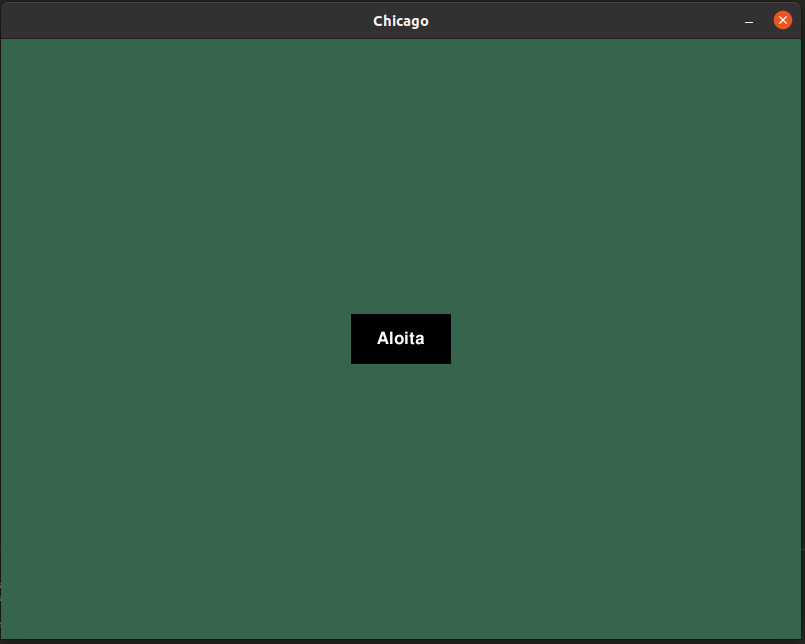
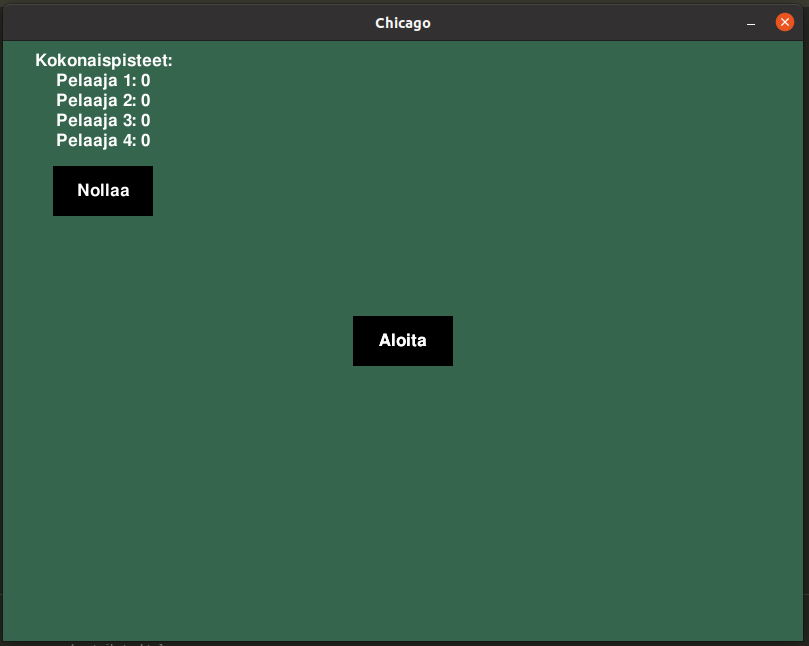
Käyttöohjetta, vaatimusmäärittelyä ja READMEta päivitetty

diff --git a/src/game_logic/game_actions.py b/src/game_logic/game_actions.py
@@ -471,7 +471,7 @@ class App:
         Metodi pistetarkistukseen ja pelin päättämiseen jos pisteitä on tarpeeksi. 
         Tästä metodista voi myös nostaa/laskea pistemäärää, jonka ylityksestä peli päättyy. 
         """
-        if points[len(points)-1] >= 5:
+        if points[len(points)-1] >= 10:
             if points[len(points)-1] > points[len(points)-2]:
                 for player in self.players:
                     if self.scoreboard[player] == points[len(points)-1]:

diff --git a/dokumentaatio/kayttoohje.md b/dokumentaatio/kayttoohje.md
@@ -1,18 +1,18 @@
 <h1>Käyttöohje</h2>
 <h2> Pelin käynnistys </h2>
-Kun avaat sovelluksen komennolla <i>poetry invoke run start</i>, näytöllesi aukeaa graafinen käyttöliittymä, joka näyttöö seuraavalta:
+README:n ohjeiden avulla saat aluksi tarvittavat konfiguraatiot tehtyä. Kun avaat sovelluksen komennolla <i>poetry invoke run start</i>, näytöllesi aukeaa graafinen käyttöliittymä, joka näyttöö seuraavalta:
 
 ![Aloitusnäkymä](./kuvat/aloitusnakyma.png)
 
-Pelin saat käynnistettyä painamalla "Aloita peli".
+Pelin saat käynnistettyä painamalla "Aloita peli". Vasemmassa yläkulmassa näkyy lisäksi kokonaispistetilasto. Tilaston saa halutessaan nollattua painikkeesta sen alapuolelta. Mikäli kokonaispisteet ovat jo nollissa, nappi ei tee mitään näkyvää.
 
 <h2> Pokeri </h2>
 
-Peli käynnistyy ensimmäisenä pokerilla, joka näyttää tältä:
+Peli käynnistyy ensimmäisenä pokerilla, joka näyttää suunnilleen tältä:
 
 ![Pokerinäkymä](./kuvat/pokerinakyma.png)
 
-Vaihtokortit saat valittua klikkaamalla haluamiasi kortteja ja klikkaamalla "Jatka". Pelissä on 4 pelaajaa ja pokerikierroksia/vaihtoja on 2.
+Vaihtokortit saat valittua klikkaamalla haluamiasi kortteja ja klikkaamalla "Jatka". Pelissä on 4 pelaajaa ja pokerikierroksia/vaihtoja on 2. Toisella pokerikierroksella on mahdollista aktivoida blanco-chicago, jolloin sinun on vaihdettava vähintään yksi kortti. Mikäli pelaaja huutaa blancon, eivät muut pelaajat voi tämän jälkeen enää huutaa blancoa tai chicagoa. Kummankin vaihtokierroksen yhteydessä jaetaan parhaasta pokerikädestä pisteet sivun alalaidassa olevan pisteytyslistan mukaan.
 
 <h2> Tikki </h2>
 
@@ -20,7 +20,10 @@ Pokerikierroksen jälkeen vuoroon tulee tikki:
 
 ![Tikkinäkymä](./kuvat/tikkinakyma.png)
 
-Tikissä ensimmäisenä vuorossa oleva asettaa pöydälle yhden kortin. Tästä kortista tulee vertailukortti, ja muiden pelaajien on pelattava tätä samaa maata. Jos toinen pelaaja pelaa samaa maata ja arvoltaan suuremman kortin, tulee tästä kortista vertailukortti. Kun kaikki ovat asettaneet yhden kortin pöydälle, vuoroa jatkaa edellisen kierroksen voittaja eli vertailukortin viimeisin asettaja. Tikkikierroksia on 5, eli pelataan kortit pois. Tikin viimeisen kierroksen voittaja saa 5 pistettä. Tällä hetkellä peli on asetettu loppumaan 10 pisteeseen, sitä voi halutessaan muuttaa.
+Tikissä ensimmäisenä vuorossa oleva asettaa pöydälle yhden kortin. Tästä kortista tulee vertailukortti, ja muiden pelaajien on pelattava tätä samaa maata. Jos toinen pelaaja pelaa samaa maata ja arvoltaan suuremman kortin, tulee tästä kortista vertailukortti. Kun kaikki ovat asettaneet yhden kortin pöydälle, vuoroa jatkaa edellisen kierroksen voittaja eli vertailukortin viimeisin asettaja. Tikkikierroksia on viisi, eli pelataan kortit pois. Mikäli pelissä on huudettu blanco tai normaali chicago, sen huutajan on voitettava kaikki viisi tikkikierrosta. Tikin viimeisen kierroksen voittaja saa 5 pistettä. Jokaisen kierroksen (paitsi chicago-kierroksen) jälkeen lopussa tarkistetaan vielä pokerikäsi, ja paras käsi saa pisteet. Pisteytyksen löydät tämän tiedoston alareunasta.
+
+
+Tällä hetkellä peli on asetettu loppumaan 10 pisteeseen, sitä voi halutessaan muuttaa src/game_logic/game_actions-tiedostosta App-luokasta metodista points_check.
 
 <h2> Loppunäkymä </h2>
 
@@ -29,3 +32,17 @@ Kun peli loppuu, avautuu seuraava näkymä:
 ![Loppunäkymä](./kuvat/loppunakyma.png)
 
 Pelin loputtua voit halutessasi aloittaa uuden pelin.
+
+<h2> Pisteytys </h2>
+Pari: 1p
+Kaksi paria: 2p
+Kolmoset: 3p
+Suora: 4p
+Väri: 5p
+Täyskäsi: 6p
+Neloset: 8p (ja kaikki muut pelaajat tippuvat 0 pisteeseen)
+Värisuora: 52p (ja kaikki muut pelajaat tippuvat 0 pisteeseen, peli loppuu)
+Tikin lopetus: 5p
+Tikin lopetus kakkosella: 10p
+Chicago (onnistunut/epäonnistunut): 15/-15
+Blanco-chicago (onnistunut/epäonnistunut): 30/-30

diff --git a/dokumentaatio/vaatimusmaarittely.md b/dokumentaatio/vaatimusmaarittely.md
@@ -1,8 +1,11 @@
 # Vaatismusmäärittely
 ## Sovelluksen tarkoitus
-Sovelluksessa 4 käyttäjää pystyy pelaamaan vastakkain Chicago-korttipeliä. Chicagossa pelataan aluksi 2 kierrosta pokeria ja kierros päätetään tikkiin. Kummankin pokerikierroksen jälkeen pelaajan on mahdollista vaihtaa enintään 4 korttia. Wikipedia: https://fi.wikipedia.org/wiki/Chicago_(korttipeli)
+Sovelluksessa 4 käyttäjää pelaa vastakkain Chicago-korttipeliä. Chicagossa pelataan aluksi 2 kierrosta pokeria ja kierros päätetään tikkiin. Sovelluksessa on noudatettu seuraavia ohjeita:
+
+Wikipedia: https://fi.wikipedia.org/wiki/Chicago_(korttipeli)
+
 ## Käyttöliittymä
-Sovelluksessa käytetään graafista käyttöliittymää. Alussa pyydetään pelaajien nimet. Nimien syöton jälkeen avautuu peliruutu, jossa keskellä näyttöä näkyy pakka ja jokaisella sivulla pelaajien kortit. Vuorossa olevan pelaajan kortit näkyvät oikein päin, muiden väärin päin. Peliruudun sivulla näkyy pistetaulukko.
+Sovelluksessa käytetään graafista käyttöliittymää. Alkuruudusta on mahdollista aloittaa peli, sekä tarkastella kokonaispistemäärää. Pelin aloituksen jälkeen avautuu ensimmäisenä vuorossa olevan pelaajan pelinäkymä, josta valitaan vaihdettavat kortit. Oikealla ylälaidassa näkyy pistetaulukko, vasemmalla ylhäällä kerrotaan mahdollisista pokeripisteistä. Jokainen pelaaja saa vuorollaan vaihtaa kaksi kertaa niin monta korttia kuin haluaa, sillä kortit eivät lopu pakasta kesken. Toisen vaihdon aikana näkymään ilmestyy blanco-painike, jota klikkaamalla saa aktivoitua blanco-chicagon huutamisen. Tällöin pitää vaihtaa vähintään yksi kortti. Mikäli joku pelaajista huutaa blancon, muut eivät tätä voi enää tehdä ja näytölle ilmestyy ilmoitus blancosta. Toisen pokerikierroksen jälkeen avautuu tikkinäkymä. Mikäli blancoa ei ole huudettu, on ensimmäisellä kierroksella mahdollista huutaa vielä normaali chicago. Vuorossa ensimmäisenä oleva pelaaja asettaa tikkikierroksen aloituskortin ja muiden pelaajien on pelattava tätä samaa maata, mikäli heidän kädestään kyseistä maata löytyy. Tikkikierroksen jälkeen alkaa joko uusi kierros, tai tavoitepistemäärän ylittyessä peli loppuu. Ennen uuden näkymän ilmestymistä näytölle ilmestyy vielä tekstit kierroksen tapahtumista.
 ## Toiminnallisuus
 Sovelluksessa pidetään kirjaa tuloksista ja voittaja on pelaaja, joka pääsee ensimmäisenä 52 pisteeseen. Pelissä on mahdollista pokerikierroksen jälkeen huutaa chicago, jolloin kyseinen pelaaja aloittaa tikkivuoron ja hänen tulee voittaa jokainen tikkikäsi. Chicagon lisäksi pelaajan on mahdollista huutaa blanco-chicago ennen viimeistä vaihtoa, jolloin kyseisen pelaajan tulee vaihtaa vähintään yksi kortti ja tämän jälkeen onnistua normaalissa chicagossa. Jokaisen kierroksen (paitsi chicago-kierroksen) jälkeen lopussa tarkistetaan vielä pokerikäsi, ja paras käsi saa pisteet.
 Pisteytys:
@@ -13,7 +16,7 @@ Suora: 4p
 Väri: 5p
 Täyskäsi: 6p
 Neloset: 8p (ja kaikki muut pelaajat tippuvat 0 pisteeseen)
-Värisuora: peli loppuu ja kyseinen pelaaja voittaa
+Värisuora: 52p (ja kaikki muut pelajaat tippuvat 0 pisteeseen, peli loppuu)
 Tikin lopetus: 5p
 Tikin lopetus kakkosella: 10p
 Chicago (onnistunut/epäonnistunut): 15/-15
@@ -36,7 +39,7 @@ Sovelluslogiikka
 - [/] Graafisen käyttöliittymän liittäminen osaksi sovellusta
 - [x] Graafinen käyttöliittymä alkunäkymä
 - [x] Graafinen käyttöliittymä lopetusnäkymä
-- [ ] Graafinen käyttöliittymä pelaajien nimien syöttäminen
-- [ ] Chicago graafisessa käyttöliittymässä
-- [ ] Blancochicago graafisessa käyttöliittymässä
+- [x] Chicago graafisessa käyttöliittymässä
+- [x] Blancochicago graafisessa käyttöliittymässä
+- [x] Kokonaispistemäärä tietokannasta
 

diff --git a/README.md b/README.md
@@ -4,7 +4,7 @@ Sovelluksessa 4 käyttäjää pelaa vastakkain Chicago-korttipeliä. Chicagossa 
 
 Wikipedia: https://fi.wikipedia.org/wiki/Chicago_(korttipeli)
 
-Testauksen helpottamiseksi vuorojen välissä ei ole viivettä ja peli on asetettu päättymään 5 pisteeseen. Pelin päättävää pistemäärää voi halutessaan muuttaa src/game_actions-tiedostosta App-luokan metodista points_check.
+Testauksen helpottamiseksi vuorojen välissä ei ole viivettä ja peli on asetettu päättymään 10 pisteeseen. Pelin päättävää pistemäärää voi halutessaan muuttaa src/game_logic/game_actions-tiedostosta App-luokan metodista points_check.
 <h3> Python-versio </h3>
 Sovelluksen toimintaa on testattu Python-versiolla 3.6.0. Vanhempien Python-versioiden kanssa saattaa esiintyä ongelmia. 
 
